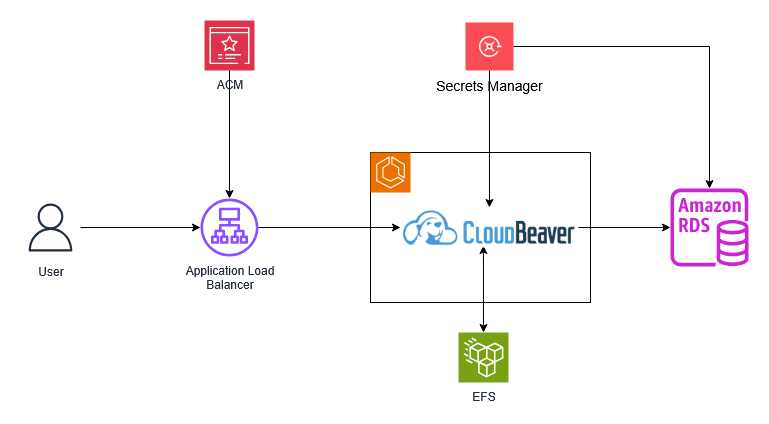
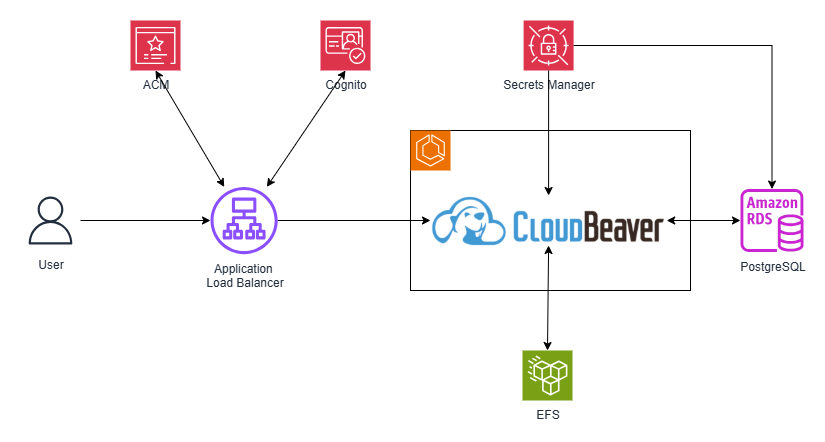
Add Cognito authentication

diff --git a/lib/cloud-beaver-on-aws-stack.ts b/lib/cloud-beaver-on-aws-stack.ts
@@ -1,13 +1,17 @@
 import * as cdk from 'aws-cdk-lib';
 import { Certificate } from 'aws-cdk-lib/aws-certificatemanager';
+import { OAuthScope, UserPool, UserPoolDomain } from 'aws-cdk-lib/aws-cognito';
 import { InstanceClass, InstanceSize, InstanceType, Vpc } from 'aws-cdk-lib/aws-ec2';
 import { Cluster, ContainerImage, Secret as ecsSecret, FargateService, FargateTaskDefinition, LogDrivers } from 'aws-cdk-lib/aws-ecs';
 import { AccessPoint, FileSystem } from 'aws-cdk-lib/aws-efs';
-import { ApplicationLoadBalancer, ApplicationProtocol } from 'aws-cdk-lib/aws-elasticloadbalancingv2';
+import { ApplicationLoadBalancer, ApplicationProtocol, ApplicationTargetGroup, ListenerAction } from 'aws-cdk-lib/aws-elasticloadbalancingv2';
+import { AuthenticateCognitoAction } from 'aws-cdk-lib/aws-elasticloadbalancingv2-actions';
+import { ManagedPolicy, PolicyDocument, PolicyStatement, Role, ServicePrincipal } from 'aws-cdk-lib/aws-iam';
 import { RetentionDays } from 'aws-cdk-lib/aws-logs';
 import { Credentials, DatabaseInstance, DatabaseInstanceEngine, DatabaseSecret, PostgresEngineVersion } from 'aws-cdk-lib/aws-rds';
 import { Secret } from 'aws-cdk-lib/aws-secretsmanager';
 import { StringParameter } from 'aws-cdk-lib/aws-ssm';
+import { AwsCustomResource, AwsCustomResourcePolicy, PhysicalResourceId } from 'aws-cdk-lib/custom-resources';
 import { Construct } from 'constructs';
 
 export class CloudBeaverOnAwsStack extends cdk.Stack {
@@ -120,20 +124,50 @@ export class CloudBeaverOnAwsStack extends cdk.Stack {
     fileSystem.connections.allowDefaultPortFrom(ecsService);
     dbInstance.connections.allowDefaultPortFrom(ecsService);
 
+    //Cognito Issue or ALB Issue? This was never fixed. https://github.com/aws/aws-cdk/issues/11171
+    const albName = cdk.Names.uniqueResourceName(this, { maxLength: 24 }).toLowerCase();
     const alb = new ApplicationLoadBalancer(this, 'alb', {
       vpc,
-      internetFacing: true
+      internetFacing: true,
+      loadBalancerName: albName,
     });
 
     const cert = Certificate.fromCertificateArn(this, 'albcert', StringParameter.valueForStringParameter(this, 'cert-arn'));
 
-    const listener = alb.addListener('app-listener', {
-      port: 443,
-      protocol: ApplicationProtocol.HTTPS,
-      certificates: [cert],
+    const userPool = new UserPool(this, 'cb-user-pool', {
+      selfSignUpEnabled: false,
+      userPoolName: 'cb-user-pool',
+      standardAttributes: {
+        email: {
+          required: true
+        }
+      },
+      removalPolicy: cdk.RemovalPolicy.DESTROY
     });
 
-    listener.addTargets('cb-alb-target', {
+    const userPoolDomain = new UserPoolDomain(this, 'cb-user-pool-domain', {
+      userPool: userPool,
+      cognitoDomain: {
+        domainPrefix: `dbeaver-${this.account.substring(0, 4)}`,
+      },
+    });
+    userPoolDomain.applyRemovalPolicy(cdk.RemovalPolicy.DESTROY);
+
+    const userPoolClient = userPool.addClient('cb-user-pool-client', {
+      generateSecret: true,      
+      oAuth: {
+        flows: {
+          authorizationCodeGrant: true
+        },
+        scopes: [ OAuthScope.OPENID ],
+        callbackUrls: [ `https://${alb.loadBalancerDnsName}/oauth2/idpresponse` ]
+      },
+      preventUserExistenceErrors: true,
+    });
+    userPoolClient.applyRemovalPolicy(cdk.RemovalPolicy.DESTROY);
+
+    const targetGroup = new ApplicationTargetGroup(this, 'cb-alb-target', {
+      vpc,
       port: 8978,
       protocol: ApplicationProtocol.HTTP,
       targets: [ecsService],
@@ -142,13 +176,84 @@ export class CloudBeaverOnAwsStack extends cdk.Stack {
         unhealthyThresholdCount: 2,
         timeout: cdk.Duration.seconds(10),
         interval: cdk.Duration.seconds(20)
-      }
+      },
+    })
+
+    const listener = alb.addListener('app-listener', {
+      port: 443,
+      protocol: ApplicationProtocol.HTTPS,
+      certificates: [cert],
+      defaultAction: new AuthenticateCognitoAction({
+        userPool,
+        userPoolClient,
+        userPoolDomain,
+        sessionTimeout: cdk.Duration.minutes(30),
+        next: ListenerAction.forward([targetGroup])
+      })
     });
 
-    new cdk.CfnOutput(this, 'alb-url', {
-      value: alb.loadBalancerDnsName,
-      exportName: 'loadBalancerDnsName'
-    });
+    //Let's have a Custom resource that will create a cognito User
+    const cognitoUserRole = new Role(this, 'cognito-user-role', {
+      assumedBy: new ServicePrincipal('lambda.amazonaws.com'),
+      managedPolicies: [
+        ManagedPolicy.fromAwsManagedPolicyName('service-role/AWSLambdaBasicExecutionRole'),
+      ],
+      inlinePolicies: {
+        CognitoUserPolicy: new PolicyDocument({
+          statements: [
+            new PolicyStatement({
+              actions: [
+                'cognito-idp:AdminCreateUser',
+                'cognito-idp:AdminDeleteUser',
+                'cognito-idp:AdminSetUserPassword',
+                'cognito-idp:AdminConfirmSignUp',
+                'cognito-idp:AdminUpdateUserAttributes',
+              ],
+              resources: [userPool.userPoolArn],
+            }),
+          ],
+        }),
+      },
+    })
+
+    const cognitoUser = new AwsCustomResource(this, 'cognito-user', {
+      onCreate: {
+        service: 'CognitoIdentityServiceProvider',
+        action: 'adminCreateUser',
+        physicalResourceId: PhysicalResourceId.of('cb-cognito-user-create'),
+        parameters: {
+          UserPoolId: userPool.userPoolId,
+          Username: 'tester@test.com',
+          UserAttributes: [
+            {
+              Name: 'email',
+              Value: 'tester@test.com',
+            },
+            {
+              Name: 'email_verified',
+              Value: 'true',
+            },
+          ],
+          TemporaryPassword: 'Pass123!',
+          MessageAction: 'SUPPRESS',
+        },
+      },
+      onDelete: {
+        service: 'CognitoIdentityServiceProvider',
+        action: 'adminDeleteUser',
+        parameters: {
+          UserPoolId: userPool.userPoolId,
+          Username: 'tester@test.com',
+        },
+      },
+      role: cognitoUserRole,
+      policy: AwsCustomResourcePolicy.fromSdkCalls({
+        resources: AwsCustomResourcePolicy.ANY_RESOURCE,
+      })
+    });    
+
+    new cdk.CfnOutput(this, 'alb-url', { value: `https://${alb.loadBalancerDnsName}`, exportName: 'loadBalancerDnsName' });
+    new cdk.CfnOutput(this, 'user', { value: 'tester@test.com', exportName: 'userEmail' });
 
   }
 }

diff --git a/README.md b/README.md
@@ -17,7 +17,11 @@ This example uses the CloudBeaver Community edition.  If you prefer [CloudBeaver
 
 ## Steps to run and test
 * Run the CDK code and wait for it to finish.  It will print out the CloudBeaver UI endpoint.  
-    * Open the UI endpoint.  Configure the admin.
+    * Open the UI endpoint. You will get Cognito Loging page. Login using the temporary credentials.
+      *  ![image](cognito-login.png "Cognito Login")
+    * Change your credentials
+      *  ![image](cognito-change-password.png "Cognito Password Change")
+    * You are in CLoud Beaver.  Configure the admin.
     * ![image](cloudbeaver.PNG "CloudBeaver UI")
 
 `Update 7/16/2025: Added admin credentials to Secrets Manager.  Use that credentials to configure the system.`
